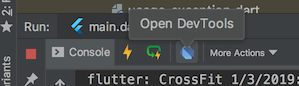
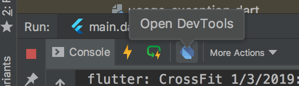
add docs for the logging view (#324)
* add docs for the logging view

* nits

* improve image resolution

diff --git a/docs/logging.md b/docs/logging.md
@@ -2,4 +2,98 @@
 title: Using the Logging View
 ---
 
-TODO:
+## What is it?
+
+The logging view displays events from the Dart runtime, application frameworks (like
+Flutter), and application-level logging events.
+
+## Standard logging events
+
+By default the logging view shows:
+
+- garbage collect events from the Dart runtime
+- Flutter framework events, like frame creation events
+- stdout and stderr from applications
+- custom logging events from applications
+
+<img src="images/logging_log_entries.png" width="809" height="320" />
+
+## Logging from your application
+
+You have two options for logging from your application. The first is to just use stdout
+and stderr. Generally, this is done by using `print` statements, or by importing `dart:io`
+and invoking methods on `stderr` or `stdout`:
+
+```dart
+stderr.writeln('print me');
+```
+
+The other option for application logging is to use the  `dart:developer`
+[log](https://api.dartlang.org/stable/2.1.1/dart-developer/log.html) method.
+This allows you to include a bit more granularity and information in the logging
+output. Here's an example:
+
+```dart
+import 'dart:developer' as developer;
+
+void main() {
+  developer.log('log me', name: 'my.app.category');
+
+  developer.log('log me 1', name: 'my.other.category');
+  developer.log('log me 2', name: 'my.other.category');
+}
+```
+
+You can also pass application data to the log call. The convention for this is to
+use the `error:` named parameter on the `log()` call, JSON encode the object you want
+to send, and pass the encoded string to the error parameter.
+
+```dart
+import 'dart:convert';
+import 'dart:developer' as developer;
+
+void main() {
+  var myCustomObject = ...;
+
+  developer.log(
+    'log me',
+    name: 'my.app.category',
+    error: jsonEncode(myCustomObject),
+  );
+}
+```
+
+The logging view will interpret the JSON encoded error param as a data object and
+render it in the details view for that log entry.
+
+## Showing network traffic
+
+There is a preview version of a package that you can use to show your application's
+network traffic in the logging view. To use it, create a pubspec dependency on the
+`logs` package:
+
+```yaml
+dependencies:
+  logs:
+    git: https://github.com/pq/logs
+```
+
+and, in your application code:
+
+```dart
+import 'package:logs/logs.dart';
+
+final Log httpLog = new Log('http');
+
+void main() {
+  httpLog.enabled = true;
+  ...
+
+```
+
+Once http logging is enabled, you should see http calls (those that ultimately go through
+`dart:io`'s `HttpClient` class) logged to the logging view.
+
+## Clear logs
+
+To clear the log entries in the logging view, hit the `Clear logs` button.
